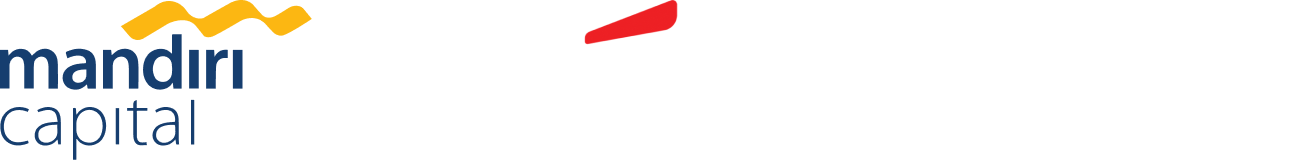
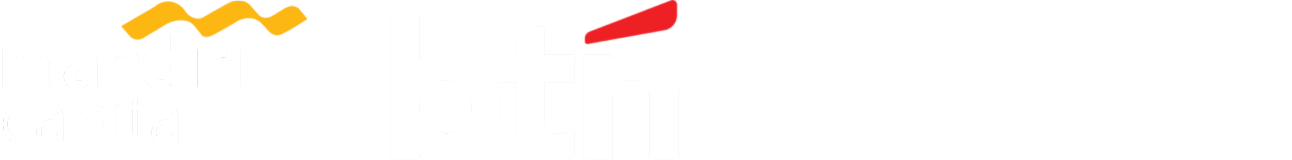
update

Changed region(s): [[0.0, 0.0, 0.2477, 0.5625], [0.0, 0.6562, 0.1548, 0.9375]]

diff --git a/public/css/portfolio-funding-show.css b/public/css/portfolio-funding-show.css
@@ -536,5 +536,5 @@
 }
 
 .investors-imagempf{
-    height: 200px;
+    height: 100px;
 }

diff --git a/resources/views/pages/portfolio.blade.php b/resources/views/pages/portfolio.blade.php
@@ -387,7 +387,7 @@
                                         <div class="card-funding-content{{ $subArticle->is_large ? '-large' : '' }}">
                                             {{ $subArticle->content }}
                                         </div>
-                                        <div style="visibility: hidden;">
+                                        <div>
                                             <a href="{{ route('portfolio.show.funding', $subArticle->title) }}" {{-- onclick="openPortfolioModal(event)" --}} class="text-decoration-none">
                                                 <span class="funding-link">Fund Details >></span>
                                             </a>

diff --git a/resources/views/pages/portfolio-show-funding-mpf.blade.php b/resources/views/pages/portfolio-show-funding-mpf.blade.php
@@ -66,7 +66,8 @@
             <div class="content-text">
                 <div class="article-content">
                     <div class="company-details">
-                        <img src="{{ asset('images/portfolio/investorsMPF.png') }}" alt="Investors" class="investors-imagempf">
+                        <img src="{{ asset('images/portfolio/investorsMPFatas.png') }}" alt="Investors" class="investors-imagempf">
+                        <img src="{{ asset('images/portfolio/investorsMPFbawah.png') }}" alt="Investors" class="investors-imagempf">
 
                     </div>
                 </div>

diff --git a/resources/views/pages/portfolio-show-funding-btn.blade.php b/resources/views/pages/portfolio-show-funding-btn.blade.php
@@ -53,8 +53,7 @@
                 <div class="article-content">
                     <div class="company-details">
                         <img src="{{ asset('images/portfolio/investorsBTN.png') }}" alt="Investors" class="investors-image">
-
-                    </div>
+                        </div>
                 </div>
             </div>
 
